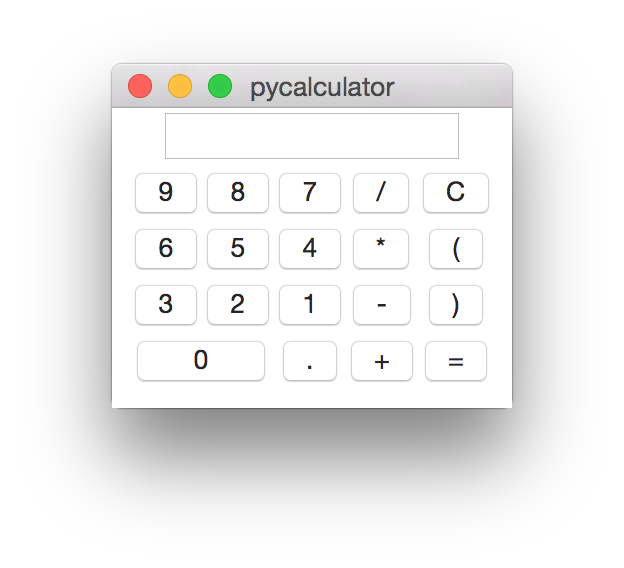
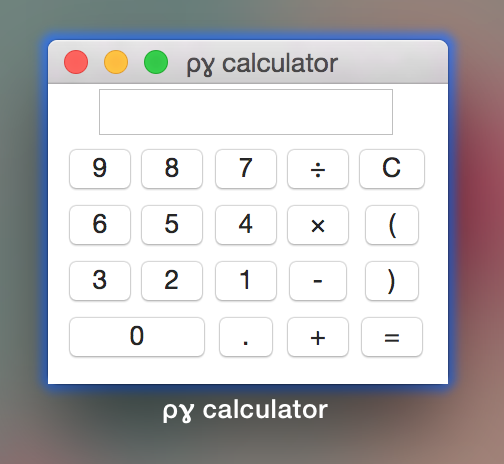
updated preview, shows error when failing to compute

diff --git a/shuntingyard.py b/shuntingyard.py
@@ -103,7 +103,7 @@ def inTOpost(mystring, arrayPostFix):
 			number = mystring[myindex[0] : myindex[1] + 1]
 			number = removeSign(number)
 
-			if isNumber(number):
+			if not isNumber(number):
 				return 0
 
 			arrayPostFix.append(number)
